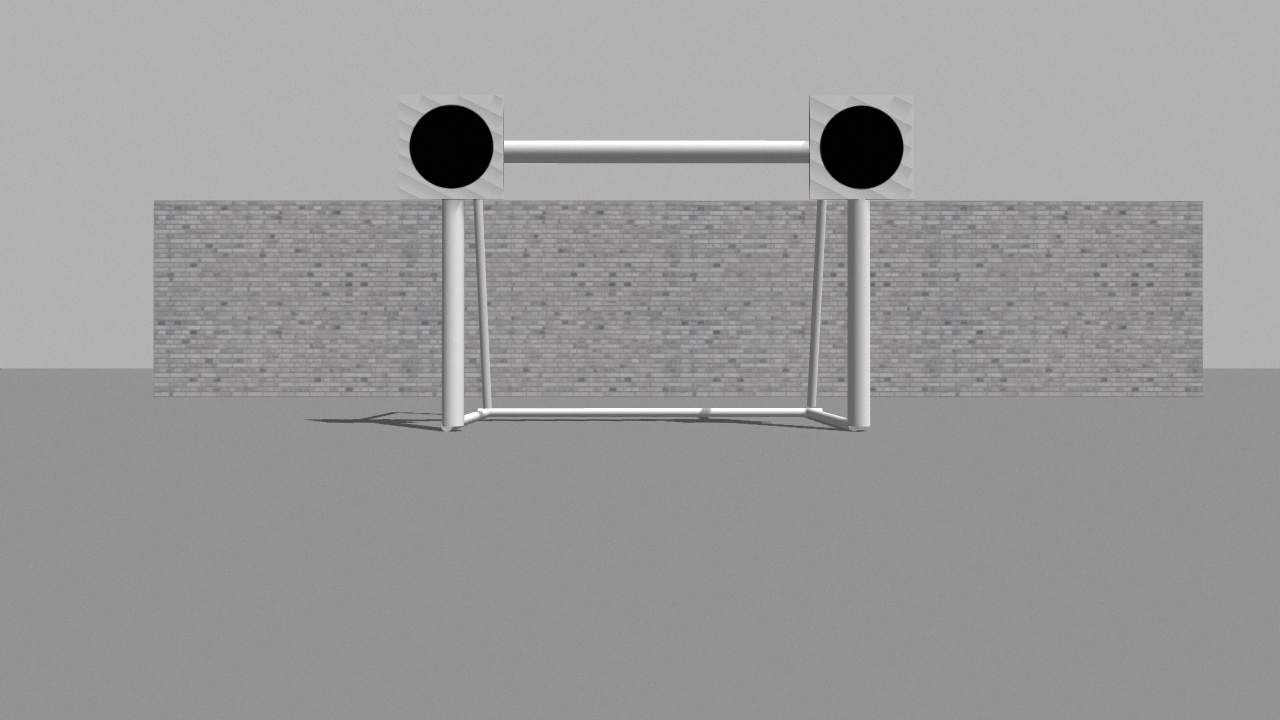
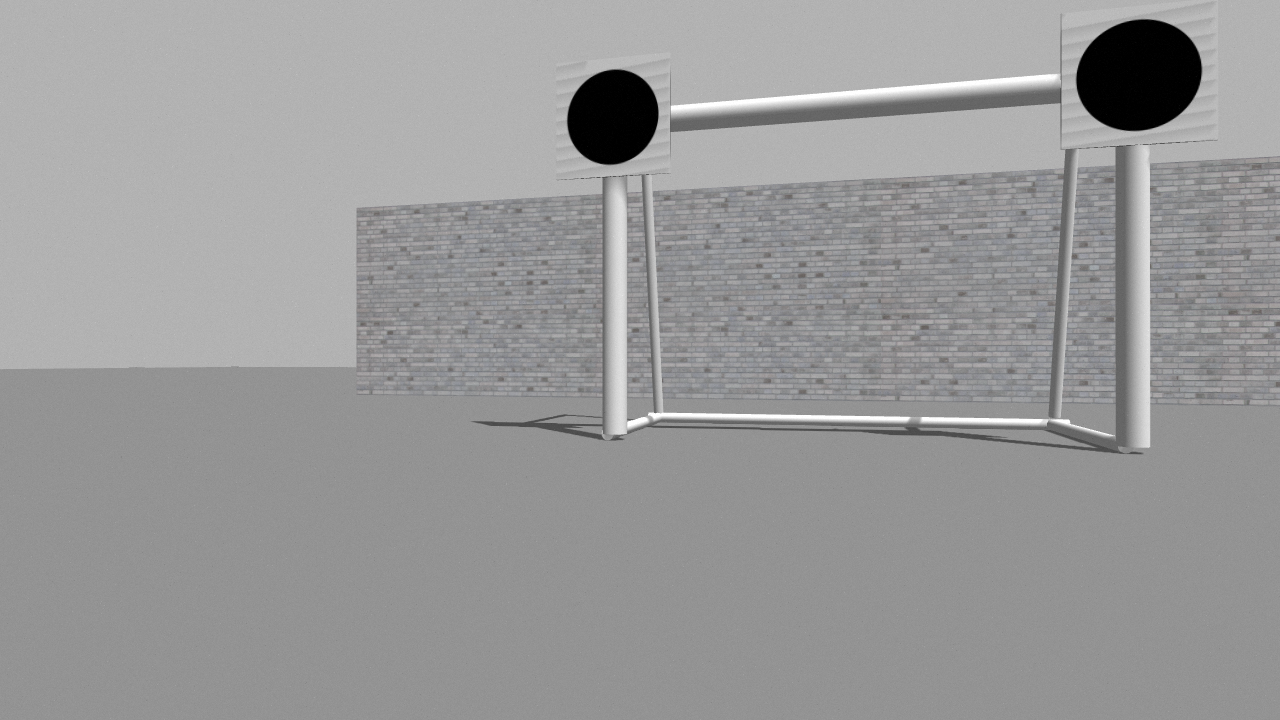
finish the visualizer (still have some bug)

Changed region(s): [[0.0938, 0.0306, 1.0, 0.6417]]

diff --git a/lib/goal_viewer.cpp b/lib/goal_viewer.cpp
@@ -1,0 +1,126 @@
+/*
+ * Created on Mon Dec 02 2019
+ *
+ * Copyright (c) 2019 HITSZ-NRSL
+ * All rights reserved
+ *
+ * Author: EpsAvlc
+ */
+
+#include "goal_viewer.h"
+
+#include <pangolin/pangolin.h>
+#include <opencv2/core/core.hpp>
+#include <thread>
+
+using namespace std;
+using namespace cv;
+
+GoalViewer::GoalViewer(string& config_file_path)
+{
+    FileStorage fs(config_file_path, FileStorage::READ);
+    assert(fs.isOpened());
+    fs["window_width"] >> window_width_;
+    fs["window_height"] >> window_height_;
+    fs["viewer_point_x"] >> vp_x_;
+    fs["viewer_point_y"] >> vp_y_;
+    fs["viewer_point_z"] >> vp_z_;
+    fs["viewer_point_f"] >> vp_f_;
+
+    R_ = Eigen::Matrix3f::Identity();
+    t_ = Eigen::Vector3f::Zero();
+}
+
+void GoalViewer::Run()
+{
+    pangolin::CreateWindowAndBind("StereoLoc: Goal Viewer", window_width_, window_height_);
+
+    glEnable(GL_DEPTH_TEST);
+
+    // Define Projection and initial ModelView matrix
+    pangolin::OpenGlRenderState s_cam(
+        pangolin::ProjectionMatrix(window_width_, window_height_, vp_f_, vp_f_, window_width_ / 2 , window_height_ / 2, 0.2,100),
+        pangolin::ModelViewLookAt(vp_x_, vp_y_, vp_z_, 0, 0, 0, 0.0, -1.0, 0.0)
+    );
+
+    // Create Interactive View in window
+    pangolin::Handler3D handler(s_cam);
+    pangolin::View& d_cam = pangolin::CreateDisplay().SetBounds(0.0, 1.0, 0.0, 1.0, -640.f/480.f).SetHandler(&handler);
+
+    std::chrono::milliseconds dura(33);
+    while( !pangolin::ShouldQuit() )
+    {
+        // Clear the window by current color.
+        
+        d_cam.Activate(s_cam);
+
+        glClear(GL_COLOR_BUFFER_BIT | GL_DEPTH_BUFFER_BIT);
+        drawGoal();
+        pangolin::FinishFrame();
+        // Mat cur_match_img = sfm_->GetCurMatch();
+        // if(!cur_match_img.empty())
+        // {
+        //     lock_guard<mutex> lock(sfm_->viewer_mutex_);
+        //     imshow("cur_match", cur_match_img);
+        // }
+        this_thread::sleep_for(dura);
+    }
+}
+
+void GoalViewer::UpdatePose(const Eigen::Matrix3f& R, const Eigen::Vector3f& t)
+{
+    R_ = R;
+    t_ = t;
+}
+
+void GoalViewer::drawGoal()
+{
+    const float goal_height = 2.0f;
+    
+    Eigen::Matrix4f cur_T;
+    for(int i = 0; i < 3; i++)
+        for(int j = 0; j < 3; j++)
+        {
+            cur_T(i, j) = R_(i, j);
+        }
+    cur_T(0, 3) = t_.x();
+    cur_T(1, 3) = t_.y();
+    cur_T(2, 3) = t_.z();
+    cur_T(3, 3) = 1;
+
+    pangolin::OpenGlMatrix cur_T_gl(cur_T);
+
+    glPushMatrix();
+    glMultMatrixd(cur_T_gl.m);
+
+    glLineWidth(25);
+    glColor3f(1, 1, 1);
+    glBegin(GL_LINES);
+    glVertex3f(0, 0, 0);
+    glVertex3f(0, 0, -goal_height);
+    glVertex3f(0, 0, 0);
+    glVertex3f(0, 3, 0);
+    glVertex3f(0, 3, 0);
+    glVertex3f(0, 3, -goal_height);
+    glEnd();
+
+    glLineWidth(6);
+    glBegin(GL_LINES);
+    glVertex3f(0, 0, 0);
+    glVertex3f(1.5, 0, 0);
+    glVertex3f(1.5, 0, 0);
+    glVertex3f(2, 0, -2);
+    glVertex3f(2, 0, -2);
+    glVertex3f(0, 0, -2);
+
+    glVertex3f(0, 3, 0);
+    glVertex3f(1.5, 3, 0);
+    glVertex3f(1.5, 3, 0);
+    glVertex3f(2, 3, -2);
+    glVertex3f(2, 3, -2);
+    glVertex3f(0, 3, -2);
+    glVertex3f(0, 3, -2);
+    glVertex3f(0, 0, -2);
+    glEnd();
+    glPopMatrix();
+}

diff --git a/lib/stereo_loc.cpp b/lib/stereo_loc.cpp
@@ -9,6 +9,8 @@
 
 #include "stereo_loc.h"
 
+#include <cmath>
+
 #include <opencv2/highgui/highgui.hpp>
 #include <opencv2/imgproc/imgproc.hpp>
 
@@ -18,7 +20,7 @@
 using namespace std;
 using namespace cv;
 
-StereoLoc::StereoLoc(string config_file_path)
+StereoLoc::StereoLoc(string config_file_path):goal_viewer_(config_file_path)
 {
     FileStorage fs(config_file_path, FileStorage::READ);
     assert(fs.isOpened());
@@ -52,13 +54,16 @@ StereoLoc::StereoLoc(string config_file_path)
     blob_params_.filterByArea = true;
     blob_params_.minArea = 100;
     blob_params_.maxArea = 1000000;
-    // blob_params_.filterByCircularity = false;
-    // blob_params_.minCircularity = 0.7;
+    blob_params_.filterByCircularity = true;
+    blob_params_.minCircularity = 0.7;
     // blob_params_.
     blob_params_.filterByColor = true;
     blob_params_.blobColor = 0;
 
     blob_detector_ = SimpleBlobDetector::create(blob_params_);
+
+    /***** Start goal viewer *****/
+    viewer_thread_ = thread(&GoalViewer::Run, &goal_viewer_);
 }
 
 bool StereoLoc::CalcPose(const cv::Mat& left_img, const cv::Mat& right_img)
@@ -66,34 +71,54 @@ bool StereoLoc::CalcPose(const cv::Mat& left_img, const cv::Mat& right_img)
     vector<Point2f> left_points, right_points;
     if(!findCornerSubPix(left_img, left_points))
     {
-        cout << "Can't find two corners in left image" << endl;
+        cout << "["<< __FUNCTION__  <<"]:Can't find two corners in left image" << endl;
         return false;
     }
     if(!findCornerSubPix(right_img, right_points))
     {
-        cout << "Can't find two corners in right image" << endl;
+        cout << "["<< __FUNCTION__  <<"]:Can't find two corners in right image" << endl;
         return false;
     }
 
     Point3f left_corner = triangulation(left_points[0], right_points[0]);
     Point3f right_corner = triangulation(left_points[1], right_points[1]);
-    cout << left_corner << endl;
-    cout << right_corner << endl;
+
+    Eigen::Vector3f t;
+    t.x() = left_corner.x;
+    t.y() = left_corner.y;
+    t.z() = left_corner.z;
+    
+    float yaw = atan((left_corner.z - right_corner.z) 
+    / fabs(left_corner.x - right_corner.x));
+
+    Eigen::Matrix3f R = Eigen::Matrix3f::Zero();
+    R(0, 0) = cos(yaw);
+    R(0, 2) = sin(yaw);
+    R(1, 1) = 1;
+    R(2, 1) = -sin(yaw);
+    R(2, 2) = cos(yaw);
+    Eigen::Matrix3f R_c_w = Eigen::Matrix3f::Zero();
+    R_c_w(0, 1) = 1;
+    R_c_w(1, 2) = -1;
+    R_c_w(2, 0) = 1;
+    R = R*R_c_w;
+    goal_viewer_.UpdatePose(R, t);
 }
 
 bool StereoLoc::findCornerSubPix(const cv::Mat& img, vector<Point2f>& corners)
 {
     vector<KeyPoint> key_corners;
     blob_detector_->detect(img, key_corners);
+
+    /***** display keypoint *****/
+    // Mat kp_image;
+    // drawKeypoints(img, key_corners, kp_image, Scalar(255, 0, 0), DrawMatchesFlags::DRAW_RICH_KEYPOINTS);
+    // imshow("keypoints", kp_image);
+
     if(key_corners.size() != 2)
     {
         return false;
     }
-
-    // display keypoint
-    // Mat kp_image;
-    // drawKeypoints(img, key_corners, kp_image, Scalar(255, 0, 0), DrawMatchesFlags::DRAW_RICH_KEYPOINTS);
-    // imshow("keypoints", kp_image);
 
     /***** refine keypoints *****/
     const float dilate_ratio = 0.2f;

diff --git a/src/location_node.cpp b/src/location_node.cpp
@@ -11,14 +11,19 @@
 #include <ros/ros.h>
 #include <iostream>
 #include <sensor_msgs/Image.h>
+#include <cv_bridge/cv_bridge.h>
 
 #include <message_filters/subscriber.h>
 #include <message_filters/synchronizer.h>
 #include <message_filters/sync_policies/approximate_time.h>
 
+#include <opencv2/core/core.hpp>
+#include <opencv2/highgui/highgui.hpp>
+
 #include "stereo_loc.h"
 
 using namespace std;
+using namespace cv;
 
 class Location
 {
@@ -37,14 +42,14 @@ private:
     void stereoCB(const sensor_msgs::ImageConstPtr& left_image, const sensor_msgs::ImageConstPtr& right_image);
 
     void leftCB(const sensor_msgs::ImageConstPtr& left_image);
-
+    StereoLoc sl_;
 };
 
-Location::Location(ros::NodeHandle& nh, ros::NodeHandle& nh_local) : nh_(nh), nh_local_(nh_local)
+Location::Location(ros::NodeHandle& nh, ros::NodeHandle& nh_local) : nh_(nh), nh_local_(nh_local), sl_("/home/cm/Workspaces/stereo_loc/src/stereo_loc/config/gazebo.yaml")
 {
     readParam();
     left_img_sub_.subscribe(nh_, left_cam_topic_ + "/image_raw", 5);
-    right_img_sub_.subscribe(nh_, left_cam_topic_ + "/image_raw", 5);
+    right_img_sub_.subscribe(nh_, right_cam_topic_ + "/image_raw", 5);
 
     // cout << left_cam_topic_ + "/image_raw" << endl;    
     sync_.reset(new stereo_sync(stereo_policy(10), left_img_sub_, right_img_sub_));
@@ -58,9 +63,16 @@ void Location::readParam()
     nh_local_.param<string>("right_cam_topic", right_cam_topic_, "right_camera");
 }
 
-void Location::stereoCB(const sensor_msgs::ImageConstPtr& left_image, const sensor_msgs::ImageConstPtr& right_image)
+void Location::stereoCB(const sensor_msgs::ImageConstPtr& left_image_msg, const sensor_msgs::ImageConstPtr& right_image_msg)
 {
-    
+    cv_bridge::CvImageConstPtr left_ptr = cv_bridge::toCvShare(left_image_msg);
+    cv_bridge::CvImageConstPtr right_ptr = cv_bridge::toCvShare(right_image_msg);
+
+    if(!sl_.CalcPose(left_ptr->image, right_ptr->image))
+    {
+        imwrite("/home/cm/Workspaces/stereo_loc/src/stereo_loc/imgs/left_img.png", left_ptr->image);
+        imwrite("/home/cm/Workspaces/stereo_loc/src/stereo_loc/imgs/right_img.png", right_ptr->image);
+    }
 }
 
 int main(int argc, char**argv)

diff --git a/include/stereo_loc/goal_viewer.h b/include/stereo_loc/goal_viewer.h
@@ -1,0 +1,25 @@
+/*
+ * Created on Mon Dec 02 2019
+ *
+ * Copyright (c) 2019 HITSZ-NRSL
+ * All rights reserved
+ *
+ * Author: EpsAvlc
+ */
+
+#include <iostream>
+#include <Eigen/Core>
+
+class GoalViewer
+{
+public:
+    GoalViewer(std::string& config_file_path);
+    void Run();
+    void UpdatePose(const Eigen::Matrix3f& R, const Eigen::Vector3f& t);
+private:
+    void drawGoal();
+    int window_width_, window_height_;
+    float vp_x_, vp_y_, vp_z_, vp_f_;
+    Eigen::Matrix3f R_;
+    Eigen::Vector3f t_;
+};

diff --git a/include/stereo_loc/stereo_loc.h b/include/stereo_loc/stereo_loc.h
@@ -10,7 +10,9 @@
 #include <iostream>
 #include <opencv2/core/core.hpp>
 #include <opencv2/calib3d/calib3d.hpp>
+#include <thread>
 
+#include "goal_viewer.h"
 class StereoLoc
 {
 public:
@@ -24,4 +26,6 @@ private:
     cv::Mat left_K_, right_K_;
     cv::Mat left_P_, right_P_;
     float baseline_;
+    GoalViewer goal_viewer_;
+    std::thread viewer_thread_;
 };

diff --git a/src/test_loc.cpp b/src/test_loc.cpp
@@ -22,5 +22,7 @@ int main()
 
     StereoLoc sl("/home/cm/Workspaces/stereo_loc/src/stereo_loc/config/gazebo.yaml");
     sl.CalcPose(left_img, right_img);
+    imshow("left_img", left_img);
     waitKey(0);
+    // while(1);
 }
